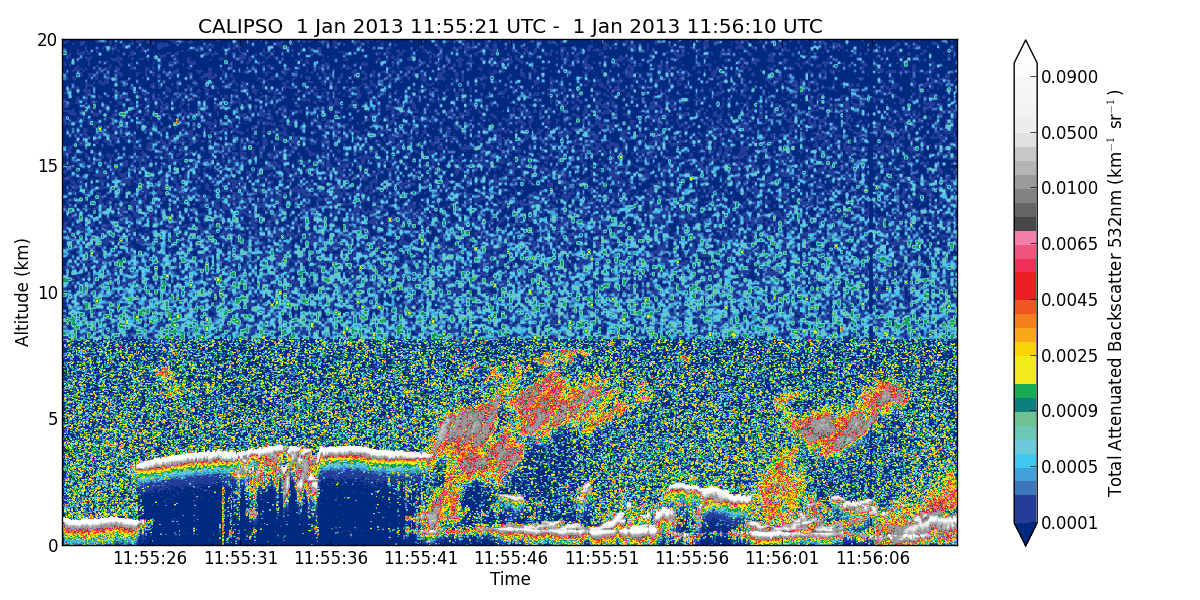
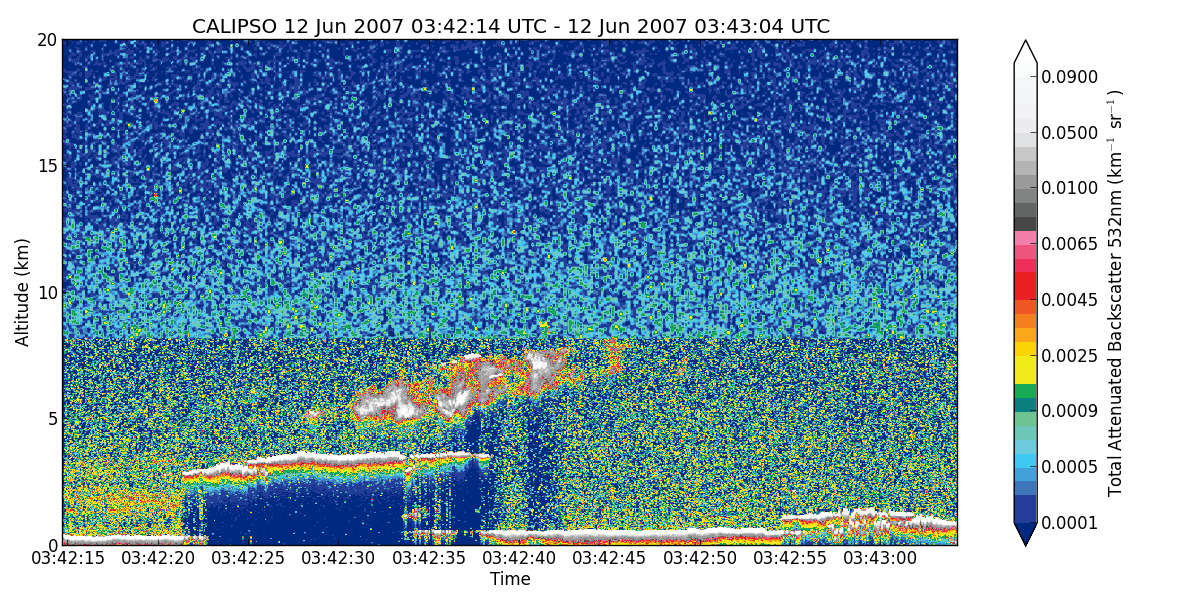
Use different granule in CALIPSO example (API)

diff --git a/_includes/calipso-plot.py b/_includes/calipso-plot.py
@@ -7,7 +7,7 @@ from ccplot.hdf import HDF
 from ccplot.algorithms import interp2d_12
 import ccplot.utils
 
-filename = 'CAL_LID_L1-ValStage1-V3-02.2013-01-01T11-55-23ZN.hdf'
+filename = 'CAL_LID_L1-ValStage1-V3-01.2007-06-12T03-42-18ZN.hdf'
 name = 'Total_Attenuated_Backscatter_532'
 label = 'Total Attenuated Backscatter 532nm (km$^{-1}$ sr$^{-1}$)'
 colormap = '/usr/local/share/ccplot/cmap/calipso-backscatter.cmap'

diff --git a/api/index.md b/api/index.md
@@ -19,7 +19,7 @@ CALIPSO example
 [![CALIPSO example](calipso-plot-small.png)](calipso-plot.png)
 
 **Input file:**
-[CAL_LID_L1-ValStage1-V3-02.2013-01-01T11-55-23ZN.hdf](https://sourceforge.net/projects/ccplot/files/products/CAL_LID_L1-ValStage1-V3-02.2013-01-01T11-55-23ZN.hdf)
+[CAL_LID_L1-ValStage1-V3-01.2007-06-12T03-42-18ZN.hdf](https://sourceforge.net/projects/ccplot/files/products/CAL_LID_L1-ValStage1-V3-01.2007-06-12T03-42-18ZN.hdf)
 
 **Source:** [calipso-plot.py](calipso-plot.py)
 
